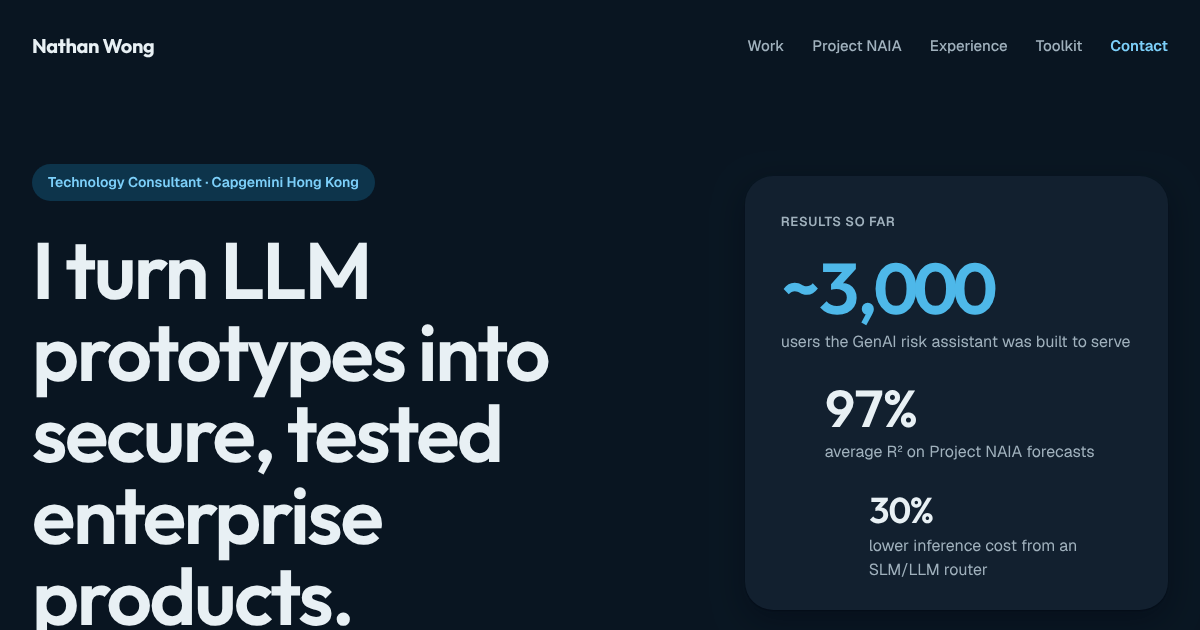
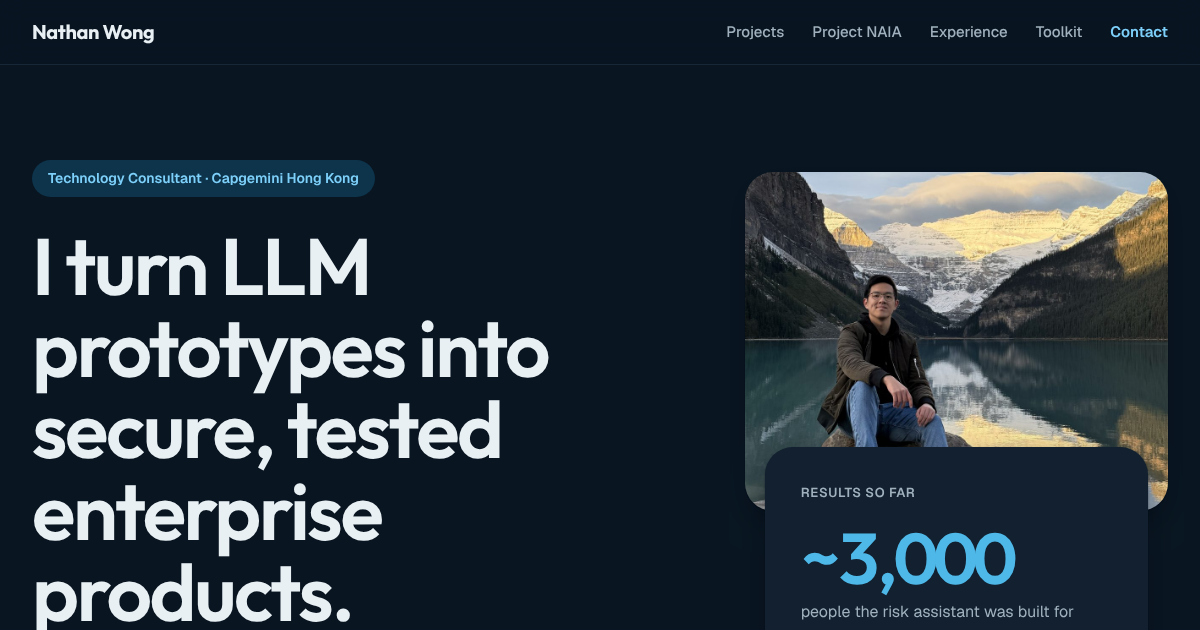
Use existing photos and screenshots, sticky header, rewrite copy
- Sticky header with a compact one-row version on phones
- Hero portrait (banner.jpg), router and digest screenshots, NAIA poster
  and a four-photo strip, all as resized copies in images/web/ (originals
  untouched)
- Rewrite page copy in a plainer first-person voice; same facts as the CV
- Drop the decorative 97% background number behind the NAIA poster
- Regenerate og.png

Claude-Session: https://claude.ai/code/session_012Ccnp8kfqLhnKh1haJoz74

diff --git a/index.html b/index.html
@@ -4,23 +4,23 @@
 <meta charset="utf-8">
 <meta name="viewport" content="width=device-width, initial-scale=1">
 <meta name="color-scheme" content="dark">
-<title>Nathan Wong — Technology Consultant at Capgemini Hong Kong</title>
-<meta name="description" content="Nathan Wong is a Technology Consultant at Capgemini Hong Kong and a software and AI engineer who turns LLM prototypes into secure, tested enterprise products.">
+<title>Nathan Wong | Technology Consultant, Capgemini Hong Kong</title>
+<meta name="description" content="Nathan Wong is a Technology Consultant at Capgemini Hong Kong and a software and AI engineer. Most recently he helped build a GenAI risk assistant for about 3,000 insurance staff.">
 <link rel="canonical" href="https://nathanwongsh.dev/">
 <link rel="icon" href="images/favicon.ico">
 
 <meta property="og:type" content="website">
 <meta property="og:site_name" content="Nathan Wong">
-<meta property="og:title" content="Nathan Wong — Technology Consultant at Capgemini Hong Kong">
-<meta property="og:description" content="Software and AI engineer. I turn LLM prototypes into secure, tested enterprise products, most recently a GenAI risk assistant built for about 3,000 users.">
+<meta property="og:title" content="Nathan Wong | Technology Consultant, Capgemini Hong Kong">
+<meta property="og:description" content="Software and AI engineer in Hong Kong. Most recently I helped build a GenAI risk assistant for about 3,000 insurance staff.">
 <meta property="og:url" content="https://nathanwongsh.dev/">
 <meta property="og:image" content="https://nathanwongsh.dev/images/og.png">
 <meta property="og:image:width" content="1200">
 <meta property="og:image:height" content="630">
-<meta property="og:image:alt" content="Nathan Wong — I turn LLM prototypes into secure, tested enterprise products.">
+<meta property="og:image:alt" content="Nathan Wong, Technology Consultant at Capgemini Hong Kong, with the headline I turn LLM prototypes into secure, tested enterprise products.">
 <meta name="twitter:card" content="summary_large_image">
-<meta name="twitter:title" content="Nathan Wong — Technology Consultant at Capgemini Hong Kong">
-<meta name="twitter:description" content="Software and AI engineer. I turn LLM prototypes into secure, tested enterprise products.">
+<meta name="twitter:title" content="Nathan Wong | Technology Consultant, Capgemini Hong Kong">
+<meta name="twitter:description" content="Software and AI engineer in Hong Kong. Most recently I helped build a GenAI risk assistant for about 3,000 insurance staff.">
 <meta name="twitter:image" content="https://nathanwongsh.dev/images/og.png">
 
 <link rel="preconnect" href="https://fonts.googleapis.com">
@@ -35,10 +35,10 @@
   <div class="wrap">
     <a class="brand" href="#top">Nathan Wong</a>
     <nav class="nav" aria-label="Primary">
-      <a href="#work">Work</a>
-      <a href="#naia">Project NAIA</a>
+      <a href="#work">Projects</a>
+      <a class="nav-opt" href="#naia">Project NAIA</a>
       <a href="#path">Experience</a>
-      <a href="#kit">Toolkit</a>
+      <a class="nav-opt" href="#kit">Toolkit</a>
       <a class="nav-cta" href="#contact">Contact</a>
     </nav>
   </div>
@@ -51,54 +51,65 @@
     <div class="hero-main">
       <div class="pill">Technology Consultant · Capgemini Hong Kong</div>
       <h1 id="hero-title">I turn LLM prototypes into secure, tested enterprise products.</h1>
-      <p class="lede">Software and AI engineer. Most recently I helped deliver a GenAI risk assistant for a large insurer, built to serve about 3,000 users, from prototype to user acceptance testing.</p>
+      <p class="lede">I'm a software engineer working mostly on AI. Right now I'm helping build a GenAI risk assistant for a large insurer. It's meant for about 3,000 people, and we've taken it from prototype through user acceptance testing.</p>
       <div class="actions">
-        <a class="btn btn-primary" href="#work">See the work</a>
+        <a class="btn btn-primary" href="#work">See my projects</a>
         <a class="btn btn-ghost" href="documents/Nathan_Wong_CV.pdf">Download CV</a>
       </div>
-      <p class="meta">BEng Computer Science, HKUST (2026) · Hong Kong · English, Bahasa Indonesia, 中文</p>
+      <p class="meta">BEng Computer Science, HKUST, 2026 · Hong Kong · English, Bahasa Indonesia, 中文</p>
     </div>
-    <aside class="hero-aside" aria-label="Results so far">
-      <div class="results">
+    <div class="hero-aside">
+      <figure class="portrait">
+        <img src="images/web/portrait.jpg" width="1000" height="1333" alt="Nathan Wong sitting on a rock beside a mountain lake">
+      </figure>
+      <aside class="results" aria-label="Results so far">
         <p class="lbl">Results so far</p>
-        <div class="stat stat-1"><div class="stat-n num">~3,000</div><p class="stat-d">users the GenAI risk assistant was built to serve</p></div>
-        <div class="stat stat-2"><div class="stat-n num">97%</div><p class="stat-d">average R² on Project NAIA forecasts</p></div>
-        <div class="stat stat-3"><div class="stat-n num">30%</div><p class="stat-d">lower inference cost from an SLM/LLM router</p></div>
-      </div>
-    </aside>
+        <div class="stat stat-1"><div class="stat-n num">~3,000</div><p class="stat-d">people the risk assistant was built for</p></div>
+        <div class="stat stat-2"><div class="stat-n num">97%</div><p class="stat-d">average R² on the NAIA forecasts</p></div>
+        <div class="stat stat-3"><div class="stat-n num">30%</div><p class="stat-d">lower inference cost with an SLM/LLM router</p></div>
+      </aside>
+    </div>
   </section>
 
-  <!-- Selected work -->
+  <!-- Projects -->
   <section class="wrap work" id="work" aria-labelledby="work-title">
     <div class="sec-head">
-      <h2 id="work-title">Selected work</h2>
-      <p>One enterprise product taken to UAT, and four projects built to answer a question I had.</p>
+      <h2 id="work-title">Projects</h2>
+      <p>The big one from work, then a few smaller ones.</p>
     </div>
     <div class="bento">
       <article class="cell cell-feature">
         <div>
           <p class="lbl">2026 · Capgemini · Group Risk</p>
           <h3>GenAI Risk Assistant</h3>
-          <p>Staff ask risk questions in plain English and get narrative, tables and charts from a text2SQL agent. I was the sole frontend developer: 15k lines of TypeScript in Next.js and React, with live-streamed agent answers, multi-thread history, inline charts and CSV export.</p>
+          <p>People in the insurer's Group Risk team type a question in plain English and get back a written answer, tables and charts. A text2SQL agent does the querying behind it. I wrote the whole frontend myself in Next.js and React. Answers stream in as they're generated, and there are separate chat threads, inline charts and CSV export.</p>
         </div>
+        <ul class="facts" aria-label="Numbers">
+          <li><span class="num">15k</span>lines of TypeScript</li>
+          <li><span class="num">64</span>Playwright BDD scenarios</li>
+          <li><span class="num">73</span>unit tests</li>
+          <li><span class="num">48</span>UAT questions answered</li>
+        </ul>
         <div>
-          <p class="detail">Secured with Microsoft Entra ID, routed through a hardened proxy, shipped via GitHub Actions to Artifactory and Azure. 64 Playwright BDD scenarios, 73 unit tests, a 48-question UAT suite.</p>
+          <p class="detail">Sign-in is Microsoft Entra ID, traffic goes through a locked-down proxy to the private backend, and releases ship through GitHub Actions to Artifactory and Azure.</p>
           <ul class="tags" aria-label="Technologies"><li>Next.js</li><li>TypeScript</li><li>Azure</li><li>Playwright</li></ul>
         </div>
       </article>
       <article class="cell">
+        <img class="cell-img" src="images/web/router.jpg" width="813" height="882" loading="lazy" alt="Dashboard showing how requests were routed between small and large models, with latency and cost charts">
         <div>
           <p class="lbl">2026</p>
           <h3>SLM/LLM Router</h3>
-          <p>FastAPI router with four routing strategies, built on a benchmark of 5+ small models. Inference cost down 30%.</p>
+          <p>A Python and FastAPI router with four ways of deciding whether a query goes to a small or a large model. It grew out of a benchmark of 5+ small models and cut inference cost by 30%.</p>
         </div>
         <a class="cell-link" href="https://github.com/nathanwong052003/slm-llm-routing" target="_blank" rel="noopener">GitHub →<span class="sr-only"> (SLM/LLM Router repository)</span></a>
       </article>
       <article class="cell cell-soft">
+        <img class="cell-img" src="images/web/digest.jpg" width="549" height="497" loading="lazy" alt="Morning digest email with the weather forecast and the day's schedule">
         <div>
           <p class="lbl">2026</p>
           <h3>Morning Digest</h3>
-          <p>GitHub Actions, Google OAuth, Gmail and Drive assemble a daily brief.</p>
+          <p>A daily brief built on GitHub Actions. It reads Gmail and Drive through Google OAuth and puts the summary together each morning.</p>
         </div>
         <a class="cell-link" href="https://github.com/nathanwong052003/morning-digest-workflows" target="_blank" rel="noopener">GitHub →<span class="sr-only"> (Morning Digest repository)</span></a>
       </article>
@@ -106,14 +117,14 @@
         <div>
           <p class="lbl">Local inference</p>
           <h3>Containerised SLMs</h3>
-          <p>Quantised GGUF models on Ollama in Docker, reproducible on consumer hardware.</p>
+          <p>Quantised GGUF models running on Ollama inside Docker, so they behave the same on ordinary consumer hardware.</p>
         </div>
       </article>
       <article class="cell">
         <div>
           <p class="lbl">2025</p>
           <h3>S&amp;P 500 Forecasting</h3>
-          <p>ARIMA, SARIMA, ETS, LightGBM and LSTM, head to head.</p>
+          <p>A self-directed comparison of ARIMA, SARIMA, ETS, LightGBM and LSTM on S&amp;P 500 data.</p>
         </div>
         <a class="cell-link" href="https://github.com/nathanwong052003/snp500-time-series-prediction" target="_blank" rel="noopener">GitHub →<span class="sr-only"> (S&amp;P 500 Forecasting repository)</span></a>
       </article>
@@ -123,55 +134,63 @@
   <!-- Project NAIA -->
   <section class="band" id="naia" aria-labelledby="naia-title">
     <div class="wrap">
-      <div class="ghost-num" aria-hidden="true">97%</div>
-      <div class="band-copy">
-        <p class="eyebrow">Hitachi Rail GTS · Jun 2025 – Feb 2026</p>
-        <h2 id="naia-title">Project NAIA</h2>
-        <p>Passenger-flow forecasting for multi-line railway networks. ARIMA, SARIMAX and LightGBM models averaged 97% R². A Kafka pipeline with schema registry and validation unified multi-format ingestion, ClickHouse batching sped up data collection, and the primary scripting algorithm ran 20% faster.</p>
+      <div class="band-top">
+        <div class="band-copy">
+          <p class="eyebrow">Hitachi Rail GTS · Jun 2025 to Feb 2026</p>
+          <h2 id="naia-title">Project NAIA</h2>
+          <p>NAIA forecasts passenger flow on railway networks with several lines. I built the ARIMA, SARIMAX and LightGBM models, which averaged 97% R². I also wrote the Kafka pipeline, with a schema registry and validation, so data in different formats could come in the same way. ClickHouse batching sped up collection, and I made the main scripting algorithm 20% faster.</p>
+        </div>
+        <figure class="poster">
+          <a href="images/web/naia-poster.jpg" aria-label="Open the Project NAIA poster at full size">
+            <img src="images/web/naia-poster.jpg" width="1600" height="1073" loading="lazy" alt="Research poster titled Passenger Flow Predictions in Interconnected Multiline Networks, with charts and a system diagram">
+          </a>
+          <figcaption>The NAIA poster</figcaption>
+        </figure>
       </div>
       <div class="stack">
-        <div class="tile"><p class="lbl">Ingest</p><p class="tile-name">Apache Kafka</p><p class="tile-sub">Producer–consumer, schema registry</p></div>
+        <div class="tile"><p class="lbl">Ingest</p><p class="tile-name">Apache Kafka</p><p class="tile-sub">Producer-consumer, schema registry</p></div>
         <div class="tile"><p class="lbl">Store</p><p class="tile-name">ClickHouse</p><p class="tile-sub">Batch processing</p></div>
-        <div class="tile"><p class="lbl">Forecast</p><p class="tile-name">LightGBM</p><p class="tile-sub">With ARIMA and SARIMAX</p></div>
-        <div class="tile tile-dark"><p class="lbl">Ship</p><p class="tile-name">Jenkins · Kubernetes</p><p class="tile-sub">CI/CD to the ALVEA platform</p></div>
+        <div class="tile"><p class="lbl">Forecast</p><p class="tile-name">LightGBM</p><p class="tile-sub">Alongside ARIMA and SARIMAX</p></div>
+        <div class="tile tile-dark"><p class="lbl">Ship</p><p class="tile-name">Jenkins · Kubernetes</p><p class="tile-sub">CI/CD to Hitachi's ALVEA platform</p></div>
       </div>
     </div>
   </section>
 
   <!-- Experience -->
   <section class="wrap path" id="path" aria-labelledby="path-title">
-    <h2 id="path-title">Where I've worked and led</h2>
+    <h2 id="path-title">Experience</h2>
     <ol class="timeline">
       <li class="job">
-        <div class="job-when"><p class="when">Mar 2026 – Present</p><p class="where">Hong Kong</p></div>
+        <div class="job-when"><p class="when">Mar 2026 to now</p><p class="where">Hong Kong</p></div>
         <div class="job-body">
           <h3>Technology Consultant, Capgemini</h3>
-          <p>Co-delivered the GenAI risk assistant and owned its chat frontend. Fed each round of UAT feedback into chatbot tuning and the text2SQL data catalogue until it answered all 48 UAT questions. Fixed firewall and routing faults with the infrastructure team, and added 15-second SSE heartbeats so long LLM answers stopped failing at the 230-second App Service idle timeout. Benchmarked Phi, Gemma and Qwen to shape edge AI strategy, then built a FastAPI SLM/LLM router, including a fine-tuned sentence transformer that scores query complexity.</p>
+          <p>I co-delivered the GenAI risk assistant and was the only developer on its chat frontend. After every UAT round I fed the feedback back into the chatbot's tuning and the text2SQL data catalogue, until it answered all 48 questions.</p>
+          <p>Deployment kept getting blocked by firewall and routing faults, so I worked through them with the infrastructure team. Long LLM answers were also failing at App Service's 230-second idle timeout, which I fixed with 15-second SSE heartbeats. Separately, I benchmarked Phi, Gemma and Qwen against larger models to help decide the team's edge AI direction, then built the SLM/LLM router, including a fine-tuned sentence transformer that scores how complex a query is.</p>
         </div>
       </li>
       <li class="job offset">
-        <div class="job-when"><p class="when">Jun 2025 – Feb 2026</p><p class="where">Hong Kong</p></div>
+        <div class="job-when"><p class="when">Jun 2025 to Feb 2026</p><p class="where">Hong Kong</p></div>
         <div class="job-body">
           <h3>R&amp;D Software Intern, Hitachi Rail GTS</h3>
-          <p>Forecasting models, Kafka ingestion and ClickHouse batching for NAIA, then Jenkins CI/CD and a Kubernetes deployment on ALVEA.</p>
+          <p>Built the NAIA forecasting models and the Kafka and ClickHouse pipeline behind them. Then I set up Jenkins CI/CD for integrated testing and helped deploy NAIA to Hitachi's ALVEA platform on Kubernetes.</p>
         </div>
       </li>
       <li class="job">
-        <div class="job-when"><p class="when">Jun – Aug 2024</p><p class="where">Hong Kong</p></div>
+        <div class="job-when"><p class="when">Jun to Aug 2024</p><p class="where">Hong Kong</p></div>
         <div class="job-body">
           <h3>Software Developer, TRM HK</h3>
-          <p>Evaluated LLMs (GPT-4o, GPT-4o mini, Claude and others) for filtering and prioritising insurance claims. A staff chatbot grew from 2 messages a week to 20 a day (70x), and a client-side search bar cut search time by 50%.</p>
+          <p>Tested several LLMs (GPT-4o, GPT-4o mini, Claude and others) on filtering and prioritising insurance claims. I built an internal staff chatbot that went from 2 messages a week to 20 a day, and a client-side search bar in JavaScript, C# and MySQL that cut search time by 50%.</p>
         </div>
       </li>
       <li class="job offset soft">
-        <div class="job-when"><p class="when">Feb 2023 – Feb 2024</p><p class="where">HKUST</p></div>
+        <div class="job-when"><p class="when">Feb 2023 to Feb 2024</p><p class="where">HKUST</p></div>
         <div class="job-body">
-          <h3>Leadership</h3>
-          <p><strong>President, Southeast Asian Students' Association.</strong> Grew event turnout by 300% across four country groups and represented members at the Students' Union. <strong>13th Internal Affairs Executive Director, ICMS.</strong> Led 28 chapter directors and 92 associates worldwide, building relations with Axiata, Shopee, Shell, P&amp;G and Maybank.</p>
+          <h3>Student leadership</h3>
+          <p><strong>President, Southeast Asian Students' Association.</strong> Represented members at the Students' Union and grew event turnout by 300% across the four biggest country groups. <strong>13th Internal Affairs Executive Director, ICMS.</strong> Led 28 chapter directors and 92 associates around the world, and built relationships with Axiata, Shopee, Shell, P&amp;G and Maybank.</p>
         </div>
       </li>
       <li class="job">
-        <div class="job-when"><p class="when">Sept 2022 – Jun 2026</p><p class="where">Hong Kong</p></div>
+        <div class="job-when"><p class="when">Sept 2022 to Jun 2026</p><p class="where">Hong Kong</p></div>
         <div class="job-body">
           <h3>BEng Computer Science, HKUST</h3>
           <p>Exchange to the University of Waterloo. Reaching Out Award (2024) and University Entrance Scholarship (2022).</p>
@@ -182,22 +201,28 @@
 
   <!-- Toolkit -->
   <section class="wrap kit" id="kit" aria-labelledby="kit-title">
-    <h2 id="kit-title">What I reach for</h2>
+    <h2 id="kit-title">Tools I use</h2>
     <div class="kit-groups">
       <div><p class="lbl">Languages and frameworks</p><ul class="chips"><li>Python</li><li>TypeScript</li><li>JavaScript</li><li>Java</li><li>C/C++</li><li>C#</li><li>Scala</li><li>SQL</li><li>React</li><li>Next.js</li><li>FastAPI</li></ul></div>
       <div><p class="lbl">AI and data</p><ul class="chips blue"><li>PyTorch</li><li>Scikit-Learn</li><li>XGBoost</li><li>LightGBM</li><li>LLM evaluation</li><li>text2SQL</li><li>Kafka</li><li>Spark</li><li>ClickHouse</li></ul></div>
       <div><p class="lbl">Cloud and DevOps</p><ul class="chips"><li>Azure</li><li>AWS</li><li>GCP</li><li>Docker</li><li>Kubernetes</li><li>Jenkins</li><li>GitHub Actions</li></ul></div>
       <div><p class="lbl">Tools</p><ul class="chips"><li>Git</li><li>Playwright</li><li>Vitest</li><li>Artifactory</li><li>Ollama</li><li>LM Studio</li><li>Hadoop</li><li>Avro</li><li>Pulsar</li><li>Tailwind</li><li>Bash</li><li>HTML/CSS</li></ul></div>
-      <p class="kit-note">Away from the keyboard: golf, badminton, travel, landscape photography, aviation, 3D printing, and following Southeast Asian economies.</p>
+      <p class="kit-note">Outside work I play golf and badminton, travel, take landscape photos, follow aviation, 3D print, and keep up with Southeast Asian economies. A few of the photos:</p>
     </div>
+    <ul class="photos">
+      <li><img src="images/web/lake.jpg" width="900" height="675" loading="lazy" alt="Snow-capped mountains reflected in a calm lake at dusk"></li>
+      <li><img src="images/web/aurora.jpg" width="900" height="1200" loading="lazy" alt="Green northern lights over a dark treeline and mountain"></li>
+      <li><img src="images/web/neon.jpg" width="900" height="1350" loading="lazy" alt="Red and blue neon restaurant sign at night in Hong Kong"></li>
+      <li><img src="images/web/skyline.jpg" width="900" height="1200" loading="lazy" alt="City skyline lit up at night and reflected in the water"></li>
+    </ul>
   </section>
 
   <!-- Contact -->
   <section class="wrap contact" id="contact" aria-labelledby="contact-title">
     <div class="cta">
       <div class="cta-copy">
-        <h2 id="contact-title">Have a project, or a question?</h2>
-        <p>Work rights in Hong Kong and Malaysia, no sponsorship needed. I read everything and reply to most of it.</p>
+        <h2 id="contact-title">Get in touch</h2>
+        <p>I have work rights in Hong Kong and Malaysia and don't need sponsorship. Email is the quickest way to reach me.</p>
       </div>
       <div class="cta-links">
         <a class="btn btn-primary" href="mailto:nathanwongshihhao@gmail.com">nathanwongshihhao@gmail.com</a>

diff --git a/assets/css/style.css b/assets/css/style.css
@@ -46,7 +46,7 @@
 }
 
 *,*::before,*::after{box-sizing:border-box}
-html{-webkit-text-size-adjust:100%;text-size-adjust:100%}
+html{-webkit-text-size-adjust:100%;text-size-adjust:100%;scroll-padding-top:80px}
 body{margin:0;background:var(--surface);color:var(--ink);font-family:var(--font-body);line-height:1.5;overflow-x:hidden}
 h1,h2,h3,p{margin:0}
 h1,h2,h3{font-family:var(--font-head);text-wrap:balance}
@@ -72,7 +72,9 @@ a:focus-visible{outline:2px solid var(--brand);outline-offset:3px;border-radius:
 .btn-ghost:hover{background:var(--raised);color:var(--ink)}
 
 /* Nav */
-.site-header .wrap{padding-top:24px;display:flex;flex-wrap:wrap;align-items:center;justify-content:space-between;gap:4px 24px}
+.site-header{position:sticky;top:0;z-index:20;background:oklch(19% 0.03 250 / .92);box-shadow:0 1px 0 oklch(30% 0.04 250 / .7)}
+@supports (backdrop-filter:blur(1px)){.site-header{background:oklch(19% 0.03 250 / .78);backdrop-filter:blur(14px)}}
+.site-header .wrap{padding-top:10px;padding-bottom:10px;display:flex;flex-wrap:wrap;align-items:center;justify-content:space-between;gap:4px 24px}
 .brand{font-family:var(--font-head);font-weight:700;font-size:20px;letter-spacing:-.02em;text-decoration:none;color:var(--ink);min-height:44px;display:inline-flex;align-items:center}
 .brand:hover{color:var(--ink)}
 .nav{display:flex;flex-wrap:wrap;gap:0 28px;font-size:15px;font-weight:500}
@@ -84,13 +86,15 @@ a:focus-visible{outline:2px solid var(--brand);outline-offset:3px;border-radius:
 .hero{padding-top:96px;padding-bottom:96px;display:flex;flex-wrap:wrap;gap:56px 64px;align-items:flex-start}
 .hero-main{flex:7 1 560px;min-width:0}
 .hero-aside{flex:5 1 360px;min-width:0;padding-top:12px}
+.portrait{margin:0;position:relative;z-index:0}
+.portrait img{display:block;width:100%;height:auto;aspect-ratio:5/4;object-fit:cover;object-position:50% 62%;border-radius:28px;box-shadow:var(--shadow)}
 .pill{display:inline-flex;padding:8px 16px;border-radius:999px;background:var(--brand-soft);color:var(--brand-hi);font-size:14px;font-weight:600}
 h1{margin-top:28px;font-size:80px;line-height:1.02;letter-spacing:-.03em;font-weight:600}
 .lede{margin-top:28px;max-width:560px;font-size:20px;line-height:1.6;color:var(--ink-2)}
 .actions{margin-top:36px;display:flex;flex-wrap:wrap;gap:12px}
 .meta{margin-top:20px;font-size:14px;color:var(--ink-2)}
 
-.results{background:var(--raised);border-radius:28px;padding:36px 36px 28px;box-shadow:var(--shadow)}
+.results{position:relative;z-index:1;margin:-64px 20px 0;background:var(--raised);border-radius:28px;padding:36px 36px 28px;box-shadow:var(--shadow)}
 .stat{margin-top:28px}
 .stat:first-of-type{margin-top:20px}
 .stat-n{font-family:var(--font-head);line-height:1;font-weight:600}
@@ -111,6 +115,7 @@ h2{font-size:48px;line-height:1.1;letter-spacing:-.025em;font-weight:600}
 .cell:hover{transform:translateY(-3px)}
 .cell h3{margin-top:8px;font-size:24px;line-height:1.15;letter-spacing:-.015em;font-weight:600}
 .cell p{margin-top:10px;font-size:15px;line-height:1.55;color:var(--ink-2)}
+.cell-img{display:block;width:100%;height:140px;object-fit:cover;object-position:top;border-radius:16px}
 .cell-link{font-size:15px;font-weight:600;min-height:44px;display:inline-flex;align-items:center;align-self:flex-start}
 .cell-soft{background:var(--brand-soft);box-shadow:none}
 .cell-soft .lbl{color:var(--brand-hi)}
@@ -119,14 +124,20 @@ h2{font-size:48px;line-height:1.1;letter-spacing:-.025em;font-weight:600}
 .cell-feature h3{margin-top:14px;font-size:42px;line-height:1.06;letter-spacing:-.025em}
 .cell-feature p{margin-top:18px;font-size:18px;line-height:1.6;color:var(--on-brand)}
 .cell-feature .detail{font-size:15px;line-height:1.65}
+.facts{list-style:none;margin:0;padding:0;display:grid;grid-template-columns:repeat(4,minmax(0,1fr));gap:12px;font-size:14px;line-height:1.35;font-weight:500}
+.facts .num{display:block;margin-bottom:4px;font-family:var(--font-head);font-size:40px;line-height:1;letter-spacing:-.03em;font-weight:600}
 .tags{margin-top:16px;display:flex;flex-wrap:wrap;gap:8px;font-size:14px;font-weight:600;list-style:none;padding:0}
 .tags li{padding:6px 12px;border-radius:10px;background:var(--brand-tag)}
 
 /* NAIA light band */
 .band{background:var(--light);color:var(--on-light);overflow:hidden}
 .band .wrap{padding-top:112px;padding-bottom:112px;position:relative}
-.ghost-num{position:absolute;right:-24px;top:40px;font-family:var(--font-head);font-size:300px;line-height:1;letter-spacing:-.06em;font-weight:700;color:var(--light-ghost);pointer-events:none;user-select:none}
-.band-copy{position:relative;max-width:660px}
+.band-top{position:relative;display:flex;flex-wrap:wrap;gap:40px;align-items:flex-start;justify-content:space-between}
+.band-copy{position:relative;flex:1 1 480px;max-width:660px}
+.poster{position:relative;flex:0 1 420px;margin:24px 0 0}
+.poster a{display:block;border-radius:16px}
+.poster img{display:block;width:100%;height:auto;border-radius:16px;box-shadow:0 1px 2px oklch(24% 0.06 250 / .25),0 14px 36px oklch(24% 0.06 250 / .28)}
+.poster figcaption{margin-top:10px;font-size:14px;color:var(--on-light-2)}
 .band .eyebrow{font-size:14px;font-weight:600;letter-spacing:.05em;text-transform:uppercase;color:var(--on-light-lbl)}
 .band h2{margin-top:16px;font-size:64px;line-height:1.04;letter-spacing:-.03em}
 .band-copy p{margin-top:20px;font-size:19px;line-height:1.65;color:var(--on-light-2)}
@@ -161,6 +172,8 @@ h2{font-size:48px;line-height:1.1;letter-spacing:-.025em;font-weight:600}
 .chips{margin:12px 0 0;padding:0;list-style:none;display:flex;flex-wrap:wrap;gap:8px}
 .chips li{padding:9px 16px;border-radius:12px;font-size:16px;font-weight:500;background:var(--raised);box-shadow:var(--shadow)}
 .chips.blue li{background:var(--brand-soft);color:var(--brand-hi);box-shadow:none}
+.photos{flex:1 1 100%;list-style:none;margin:8px 0 0;padding:0;display:grid;grid-template-columns:repeat(4,minmax(0,1fr));gap:16px}
+.photos img{display:block;width:100%;height:auto;aspect-ratio:3/4;object-fit:cover;border-radius:20px;box-shadow:var(--shadow)}
 .kit-note{font-size:16px;line-height:1.6;color:var(--ink-2)}
 
 /* Contact + footer */
@@ -177,13 +190,19 @@ h2{font-size:48px;line-height:1.1;letter-spacing:-.025em;font-weight:600}
 /* Narrow screens */
 @media (max-width:820px){
   :root{--gutter:20px}
-  .hero{padding-top:56px;padding-bottom:64px}
+  .site-header .wrap{padding-top:4px;padding-bottom:4px}
+  .nav{gap:0 16px;font-size:14px}
+  .hero{padding-top:40px;padding-bottom:64px}
+  .results{margin:-48px 12px 0}
+  .photos{grid-template-columns:repeat(2,minmax(0,1fr));gap:12px}
+  .poster{flex-basis:100%;margin-top:8px}
   h1{font-size:48px}
   h2{font-size:36px}
   .lede{font-size:18px}
   .bento{grid-template-columns:minmax(0,1fr)}
   .bento>*{grid-column:auto;grid-row:auto}
   .cell-feature{padding:32px}
+  .facts{grid-template-columns:repeat(2,minmax(0,1fr));gap:16px}
   .cell-feature h3{font-size:34px}
   .results{padding:28px 24px 24px}
   .stat-1 .stat-n{font-size:60px}
@@ -193,13 +212,20 @@ h2{font-size:48px;line-height:1.1;letter-spacing:-.025em;font-weight:600}
   .band .wrap{padding-top:72px;padding-bottom:72px}
   .band h2{font-size:44px}
   .band-copy p{font-size:17px}
-  .ghost-num{font-size:160px;top:16px;right:-12px}
-  .path,.kit,.contact{padding-top:80px}
+    .path,.kit,.contact{padding-top:80px}
   .job{padding:24px}
   .job.offset{margin-left:0}
   .job h3{font-size:22px}
   .cta{padding:32px 24px;border-radius:28px}
   .cta h2{font-size:36px}
+}
+
+@media (max-width:520px){
+  html{scroll-padding-top:72px}
+  .nav a.nav-opt{display:none}
+  .nav{gap:0 14px}
+  .site-header .wrap{column-gap:10px}
+  .brand{font-size:18px}
 }
 
 @media (prefers-reduced-motion:reduce){
